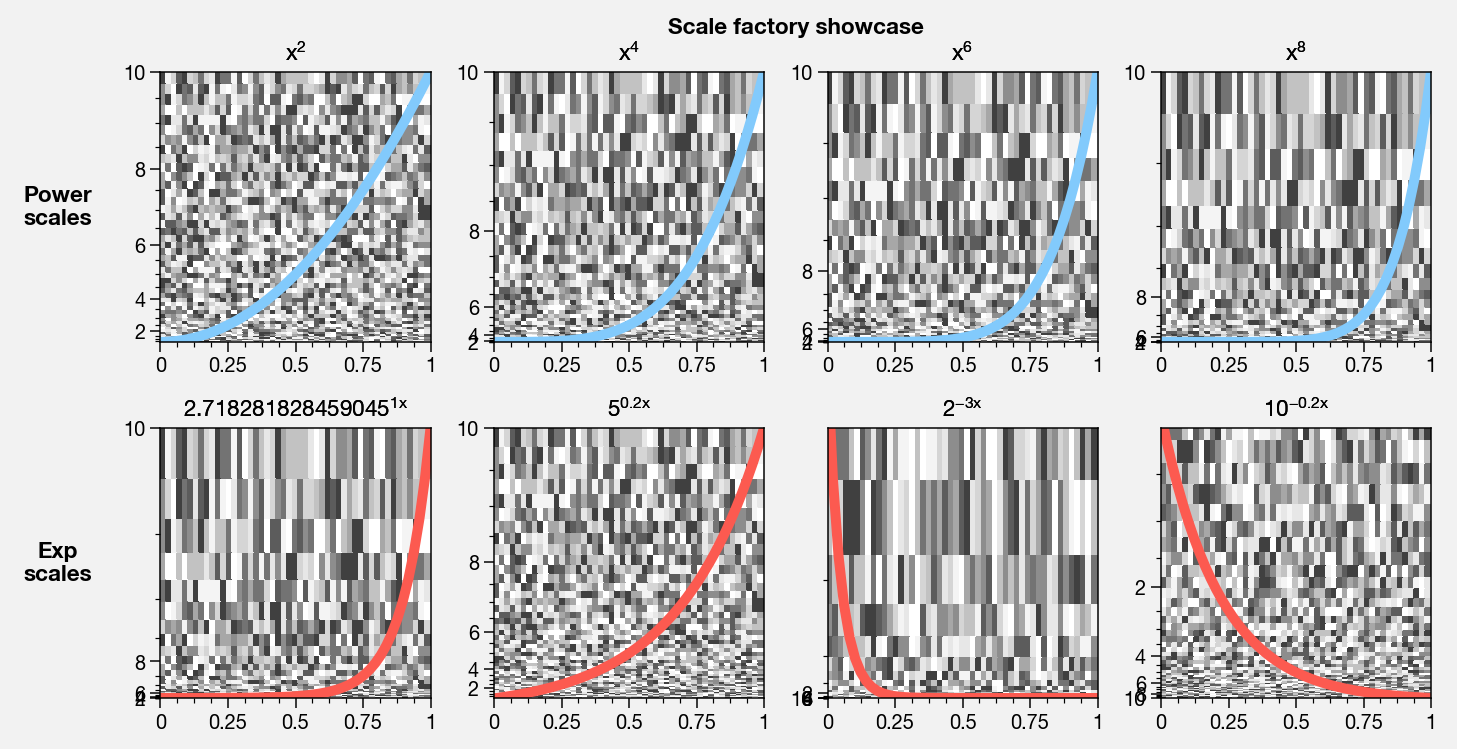
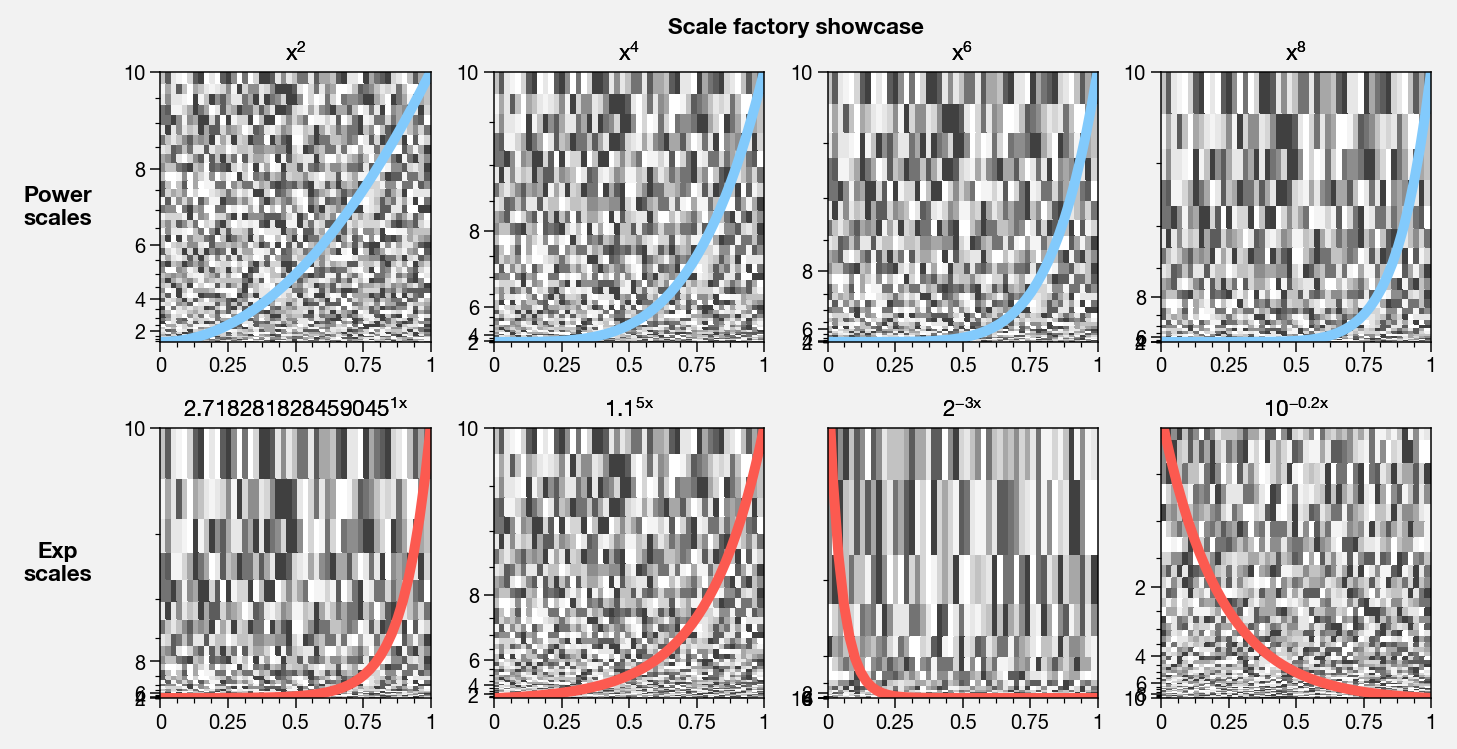
Axis scales cleanup

diff --git a/proplot/axistools.py b/proplot/axistools.py
@@ -672,10 +672,10 @@ class _InvertedPowerTransform(mtransforms.Transform):
 # Why can't this just be a class that accepts args for changing the scale
 # params? Because then would need kwargs for every set_xscale call.
 #------------------------------------------------------------------------------#
-def ExpScaleFactory(base, scale, exp, inverse=False, name=None):
+def ExpScaleFactory(base, exp, scale=1, inverse=False, name=None):
     r"""
     Returns an "exponential scale" that performs the transformation
-    :math:`Ba^{cx}`.
+    :math:`Ca^{bx}`.
 
     This is used when adding a pressure coordinate axis
     for data that is plotted linearly w.r.t. height, or vice versa. Ignore
@@ -684,27 +684,27 @@ def ExpScaleFactory(base, scale, exp, inverse=False, name=None):
     Parameters
     ----------
     base : float
-        The base, i.e. the :math:`a` in :math:`Ba^{cx}`.
-    scale : float
-        The coefficient, i.e. the :math:`A` in :math:`Ae^{bx}`.
+        The base, i.e. the :math:`a` in :math:`Ca^{bx}`.
     exp : float
-        The scale for the exonent, i.e. the :math:`c` in :math:`Ba^{cx}`.
+        The scale for the exonent, i.e. the :math:`b` in :math:`Ca^{bx}`.
+    scale : float, optional
+        The coefficient, i.e. the :math:`C` in :math:`Ce^{bx}`.
     inverse : bool, optional
         If ``True``, the "forward" direction performs
         the inverse operation :math:`(\log(x) - \log(A))/b`.
     name : None or str, optional
-        The registered scale name. Defaults to ``'power_{exp}_{scale}'``.
+        The registered scale name. Defaults to ``'power_{base}_{exp}_{scale}'``.
     """
-    name_ = _default(name, f'power_{scale:.1e}_{exp:.1e}')
+    name_ = _default(name, f'exp_{base:.1e}_{scale:.1e}_{exp:.1e}')
     class ExpScale(mscale.ScaleBase):
         # Declare name
         name = name_
         def __init__(self, axis, minpos=1e-300, **kwargs):
             super().__init__()
             if not inverse:
-                transform = _ExpTransform(base, scale, exp, minpos)
+                transform = _ExpTransform(base, exp, scale, minpos)
             else:
-                transform = _InvertedExpTransform(base, scale, exp, minpos)
+                transform = _InvertedExpTransform(base, exp, scale, minpos)
             self._transform = transform
         def limit_range_for_scale(self, vmin, vmax, minpos):
             # return min(vmin, minpos), min(vmax, minpos)
@@ -726,18 +726,18 @@ class _ExpTransform(mtransforms.Transform):
     output_dims = 1
     has_inverse = True
     is_separable = True
-    def __init__(self, base, scale, exp, minpos):
+    def __init__(self, base, exp, scale, minpos):
         super().__init__()
         self.minpos = minpos
         self._base = base
-        self._scale = scale
         self._exp = exp
+        self._scale = scale
     def transform(self, a):
         return self._scale*np.power(self._base, self._exp*np.array(a))
     def transform_non_affine(self, a):
         return self.transform(a)
     def inverted(self):
-        return _InvertedExpTransform(self._base, self._scale, self._exp, self.minpos)
+        return _InvertedExpTransform(self._base, self._exp, self._scale, self.minpos)
 
 class _InvertedExpTransform(mtransforms.Transform):
     """Inverse exponential coordinate transform."""
@@ -745,12 +745,12 @@ class _InvertedExpTransform(mtransforms.Transform):
     output_dims = 1
     has_inverse = True
     is_separable = True
-    def __init__(self, base, scale, exp, minpos):
+    def __init__(self, base, exp, scale, minpos):
         super().__init__()
         self.minpos = minpos
         self._base = base
-        self._scale = scale
         self._exp = exp
+        self._scale = scale
     def transform(self, a):
         aa = np.array(a).copy()
         aa[aa<=self.minpos] = self.minpos # necessary
@@ -758,7 +758,7 @@ class _InvertedExpTransform(mtransforms.Transform):
     def transform_non_affine(self, a):
         return self.transform(a)
     def inverted(self):
-        return _ExpTransform(self._base, self._scale, self._exp, self.minpos)
+        return _ExpTransform(self._base, self._exp, self._scale, self.minpos)
 
 #------------------------------------------------------------------------------#
 # Cutoff axis
@@ -1159,6 +1159,6 @@ mscale.register_scale(SineLatitudeScale)
 mscale.register_scale(MercatorLatitudeScale)
 # Height coordinates
 # TODO: Some overlap maybe, since this sort-of duplicates a log scale?
-ExpScaleFactory(np.e, 1013.25, -1/7, True, 'height')   # scale pressure so it matches a height axis
-ExpScaleFactory(np.e, 1013.25, -1/7, False, 'pressure') # scale height so it matches a pressure axis
+ExpScaleFactory(np.e, -1/7, 1013.25, True, 'height')   # scale pressure so it matches a height axis
+ExpScaleFactory(np.e, -1/7, 1013.25, False, 'pressure') # scale height so it matches a pressure axis
 

diff --git a/docs/showcase.rst b/docs/showcase.rst
@@ -1134,10 +1134,10 @@ See `~proplot.axes.XYAxes.smart_update` and
         ax.plot(x, y, lw=4, color='sky')
         ax.format(ylim=(0.1,10), yscale=('power',power), title=f'$x^{power}$')
     # Exp scales
-    for ax,a,c in zip(axs[4:],(np.e,5,2,10),(1,0.2,-3,-0.2)):
+    for ax,a,c in zip(axs[4:],(np.e,1.1,2,10),(1,5,-3,-0.2)):
         ax.pcolormesh(x, y, data, cmap='grays', cmap_kw={'right': 0.8})
         ax.plot(x, y, lw=4, color='coral')
-        ax.format(ylim=(0.1,10), yscale=('exp',a,1,c), title=f'${a}^{{{c}x}}$')
+        ax.format(ylim=(0.1,10), yscale=('exp',a,c), title=f'${a}^{{{c}x}}$')
 
 
 
@@ -1272,8 +1272,9 @@ of any registered “axis scale” like ``'log'`` or ``'inverse'`` to the
     response = (np.tanh(-((x - cutoff)/0.03)) + 1)/2 # imgarinary response function
     f, ax = plot.subplots(aspect=(3,1), width=6)#, tight=False, top=2)
     ax.fill_between(x, 0, response, facecolor='none', edgecolor='gray8', lw=1, clip_on=True)
-    ax.axvline(cutoff, lw=2, ls='-', color='red')
-    ax.fill_between([0.27, 0.33], 0, 1, color='red', alpha=0.3)
+    red = plot.shade('red', 0.5)
+    ax.axvline(cutoff, lw=2, ls='-', color=red)
+    ax.fill_between([0.27, 0.33], 0, 1, color=red, alpha=0.3)
     ax.format(xlabel='wavenumber (days$^{-1}$)', ylabel='response', gridminor=True)
     ax.dualx(xscale='inverse', xlocator=np.array([20, 10, 5, 2, 1, 0.5, 0.2, 0.1, 0.05]),
               xlabel='period (days)',
